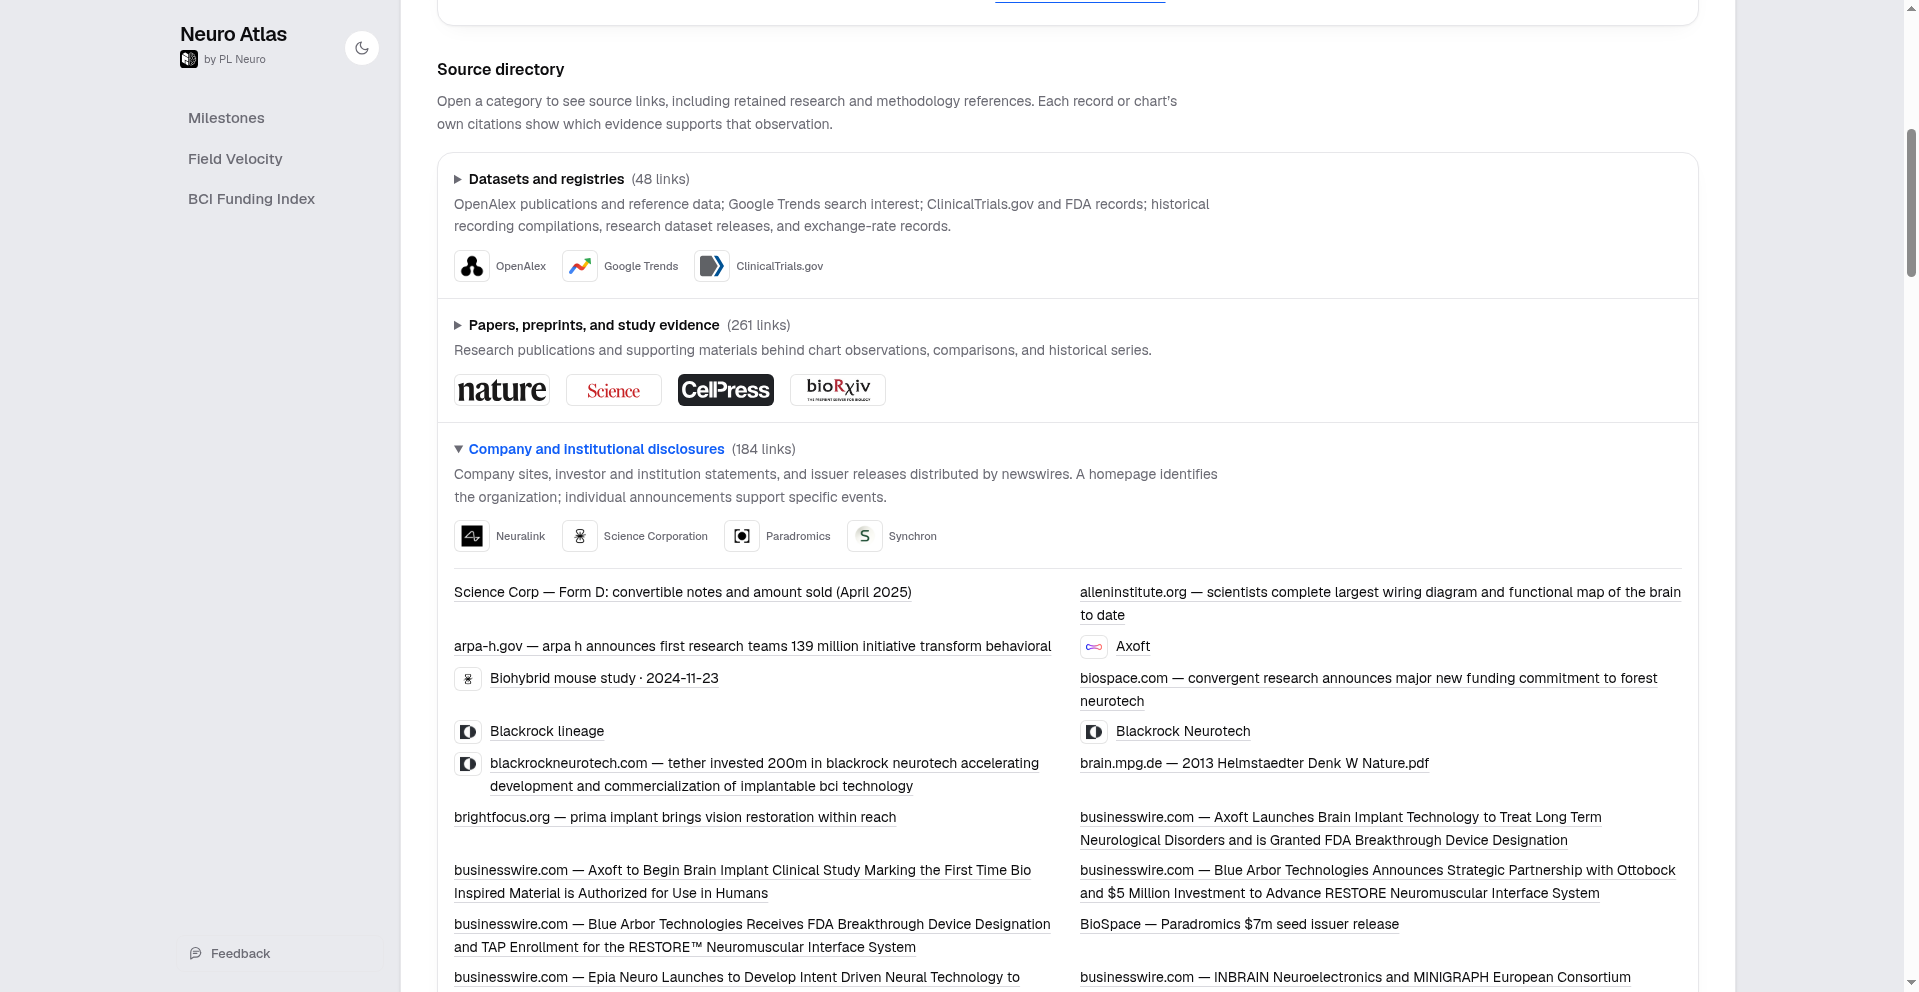
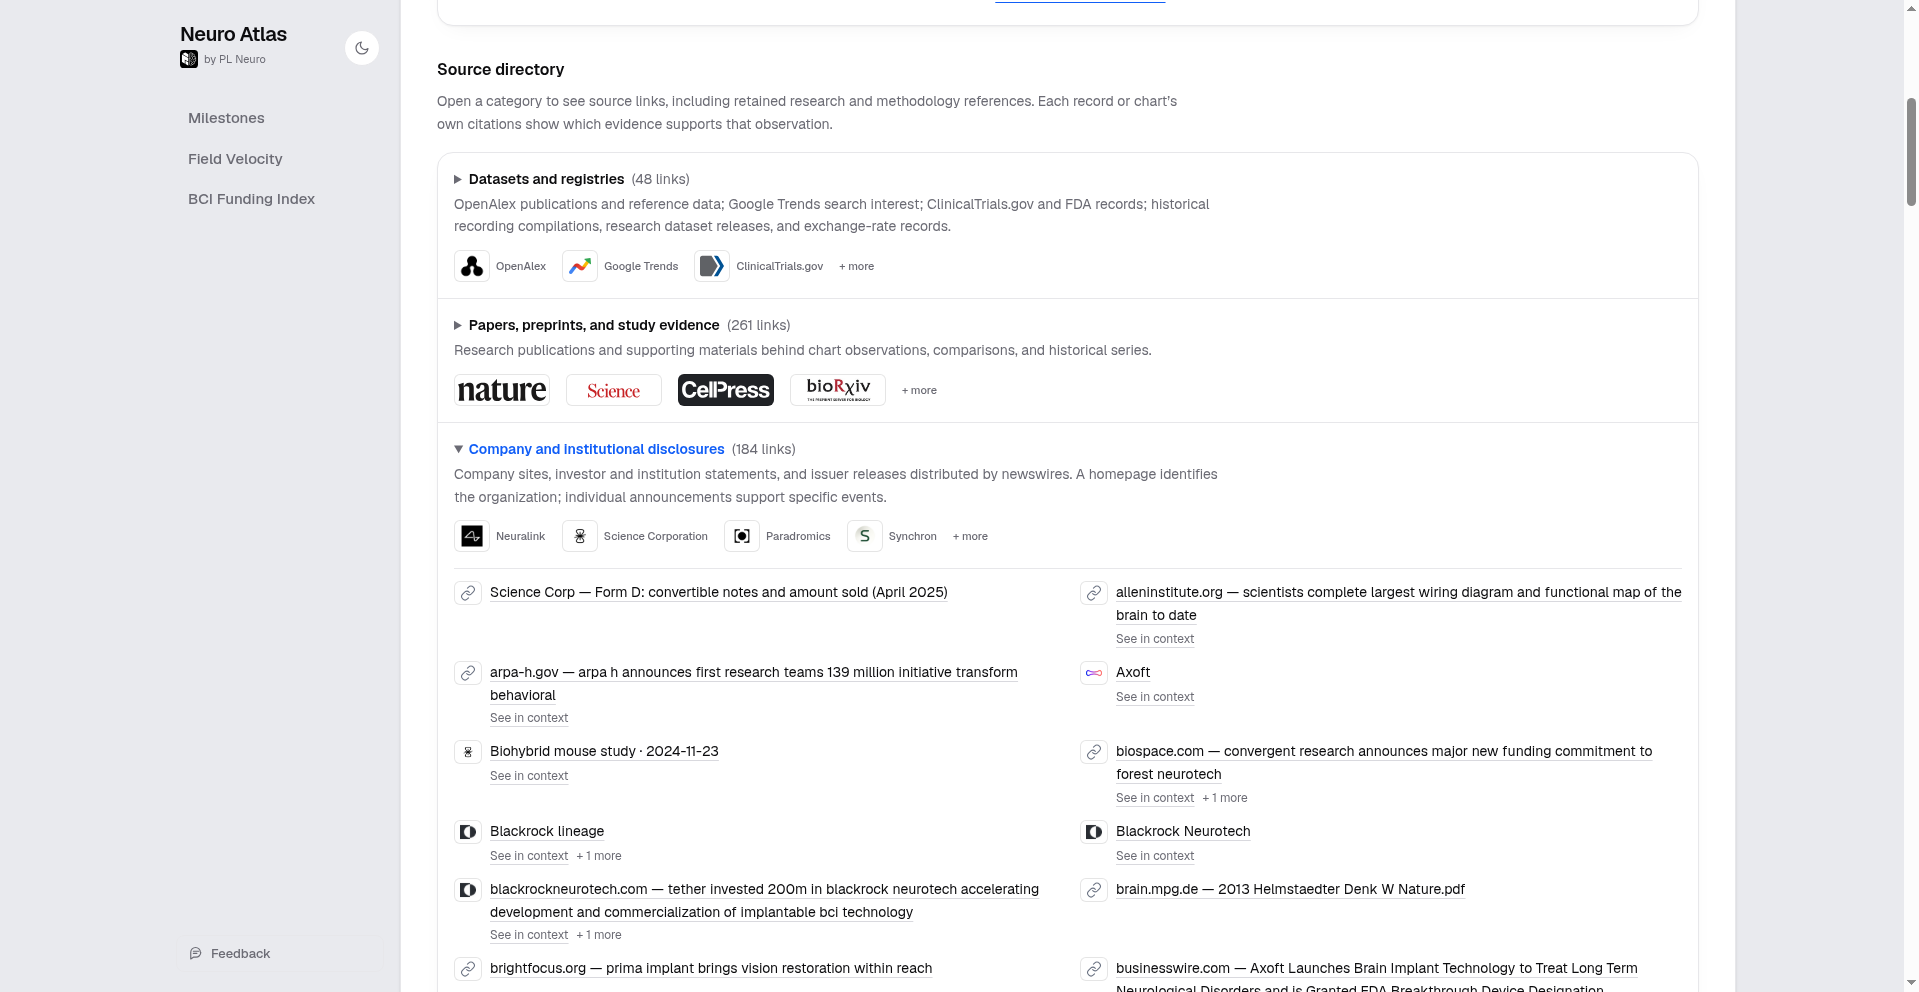
docs: record rebased link-repair verification and limitations

diff --git a/docs/qa/link-repairs-20261120/README.md b/docs/qa/link-repairs-20261120/README.md
@@ -1,0 +1,25 @@
+# Link-repair QA — November 20, 2026
+
+## Revision and scope
+
+Repair implementation rebased onto `f5102f1af60fc86f39050e89b015d90d67f024fb` (the same-day source-context, pop-out layout and chart-toggle PRs). Runtime/data revision tested: `8aa2d889b8e2d2079606823ae29bf50fc3d24bb3`. This final evidence update changes only this README and actual screenshots, not application code or data.
+
+- **204 affected/integration tests passed, zero failed**, on the rebased branch. Includes Funding data/UI, institutional labels, financial source-audit scope, historical issue baselines, methodology exact inventory, source-context behavior, historical recording, and the new active-citation negative regression.
+- `NEXT_PUBLIC_BASE_PATH=/neuro-atlas npm run build` passed on the rebased branch, including its TypeScript check.
+- Changed-file ESLint and `git diff --check` passed. The earlier standalone `npm run typecheck` also passed; the rebased build is the later type-check evidence.
+- A full-repository concurrency-2 test run **did not complete** within its explicit 600-second limit (exit 124); it is not a green full suite. An earlier exploratory run was manually stopped while work was still changing. Neither is represented as successful.
+- Independent review reproduced and closed both initial findings: stale singleton participant-evidence expectations, and an overly broad alias exception. Final independent focused replay: **22/22 passed**. Those repaired files are byte-identical after rebase; new upstream source-context integration was checked separately within the 204 tests. This is a scoped code review, not universal source-access certification.
+
+## Actual browser replay
+
+The screenshots are from the **local production build**, served with the real `/neuro-atlas` base path. They are not a hosted preview or production deployment.
+
+- The rebased methodology page rendered **575 external directory entries**, matching the exact current catalog URL set. The prior 587-entry audit is historical: 23 old entries were removed and 11 new ones added, including 13 non-citation fixture identifiers removed and the additional SEC primary document added.
+- Science's April 2025 financing visibly uses the SEC index plus a distinct Khosla participation source. The card says “Reported Apr 14, 2025” and identifies a filing date, **not an established closing date**.
+- NeuCyber's working institutional destination visibly says **“Institutional profile (CIBR)”**, not “Visit company website.”
+- The updated source directory retains upstream “See in context” links and the non-exhaustive logo-wall treatment.
+- Task-owned tabs were closed and other browser tabs were verified preserved. Local QA server stopped after inspection.
+
+## Limitations
+
+The prior audit's 90 unverified/access-limited source URLs have not been certified working or arbitrarily rewritten. Correct abstracts/landing pages do not prove unrestricted full text. SEC clients may still encounter access controls; the funding snapshot includes paywalled material. No large dataset was downloaded. No route/fragment/redirect, public visibility, account access, merge, production deployment or scheduled process was changed.
